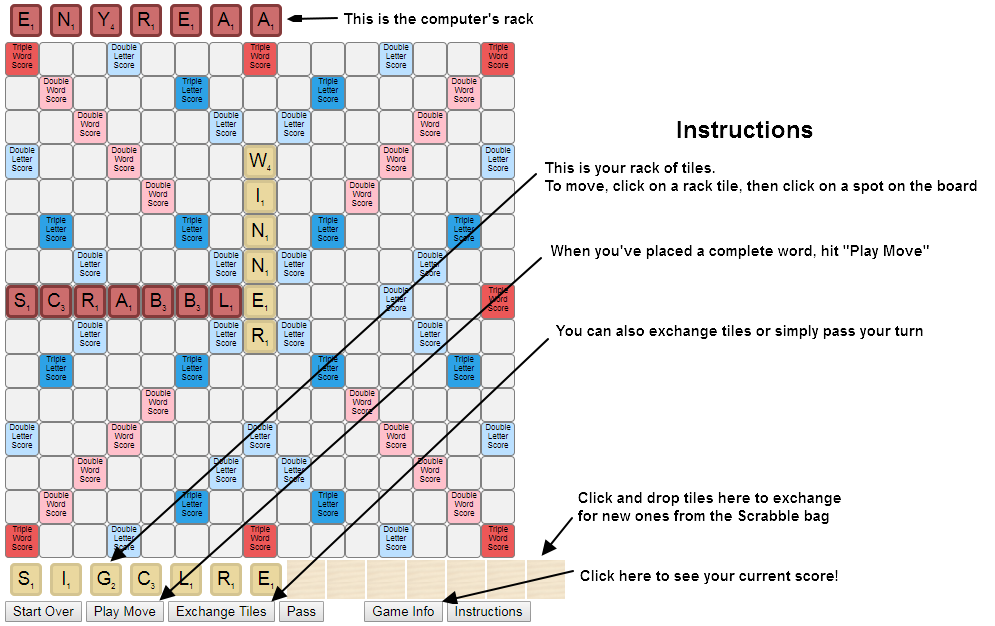
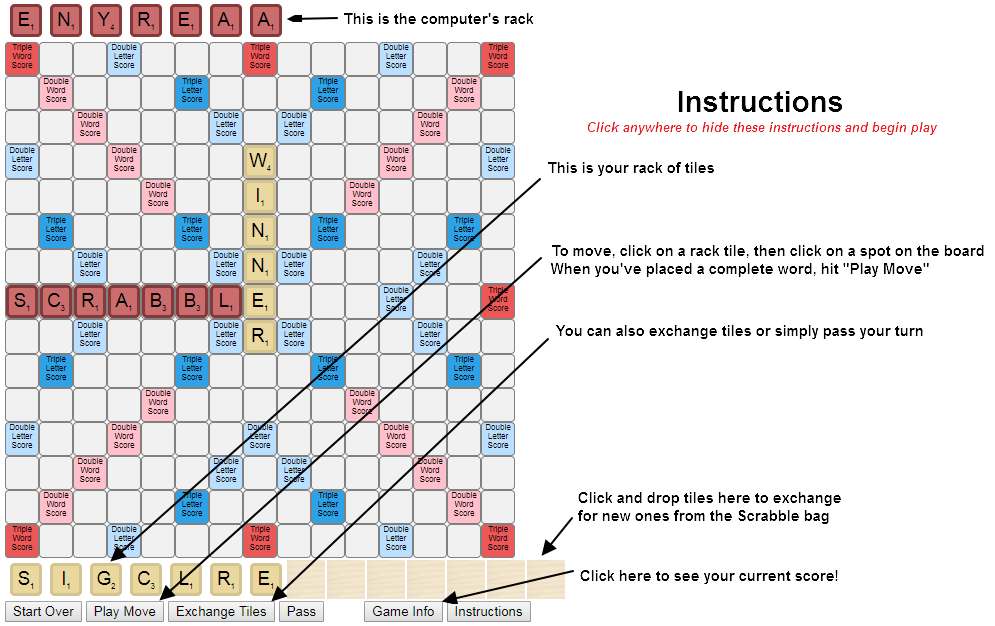
Add instructions and images

diff --git a/scrabble/templates/gameInfo.html b/scrabble/templates/gameInfo.html
@@ -1,6 +1,6 @@
 <!doctype html>
 <head>
-    <title>Scrabble Apprentice</title>
+    <title>Scrabble AI</title>
     <meta charset="utf-8"/>
     <!--Local download location
     https://jquery.com/download/ (minified)
@@ -89,35 +89,23 @@
         </table>
     </div>
     
+    <div id=instructions>
+    </div>
 </body>
 </html>
 <script type=text/javascript>
     // Get the modal
     window.onload = function() {
-        var gameInfo = document.getElementById('gameInfo');
-        console.log(gameInfo);
-
-        // Get the button that opens the modal
-        var showGameInfo = document.getElementById("showGameInfo");
-
-        // Get the <span> element that closes the modal
-        var close = document.getElementById("closeGameInfo");
-        
-        // When the user clicks on the button, open the modal 
-        showGameInfo.onclick = function() {
-            gameInfo.style.display = "block";
-        }
-
-        // When the user clicks on <span> (x), close the modal
-        close.onclick = function() {
-            gameInfo.style.display = "none";
-        }
-
-        // When the user clicks anywhere outside of the modal, close it
-        window.onclick = function(event) {
-            if (event.target != gameInfo && event.target != showGameInfo) {
-                gameInfo.style.display = "none";
-            }
-        }
+      
+    var gameInfo = document.getElementById('gameInfo');
+        gameInfo.style.display = "none";
+            
+    //toggleInstructions 
+        var instructions = document.getElementById('instructions');
+        var imageNode = document.createElement('img');
+        imageNode.src = "../static/img/instructions.png";
+        imageNode.alt = "instructions.png";
+        instructions.appendChild(imageNode);
+        instructions.style.display = "block";
     }
 </script>

diff --git a/scrabble/static/js/run_game.js b/scrabble/static/js/run_game.js
@@ -234,6 +234,19 @@ function handleData(data) {
         if (event.target != gameInfo && event.target != showGameInfo) {
             gameInfo.style.display = "none";
         }
+    };
+    //toggleInstructions 
+    var instructions = document.getElementById('instructions');
+    var imageNode = document.createElement('img');
+    imageNode.src = "../static/img/instructions.png";
+    imageNode.alt = "instructions.png";
+    instructions.appendChild(imageNode);
+    instructions.style.display = "block";
+    window.onclick = function(event) {
+        instructions.style.display = "none";
+    }
+    instructions.onclick = function() {
+        instructions.style.display = "block";
     }
 };
 function parseIntoRowCol(id) {

diff --git a/scrabble/static/css/gameInfo.css b/scrabble/static/css/gameInfo.css
@@ -8,6 +8,19 @@
 	border-style: none;
     cursor: pointer;
 }
+#instructions {
+    display: hidden; /* Hidden by default */
+    position: fixed; /* Stay in place */
+    z-index: 2; /* Sit on top */
+    left: 0%;
+    top: 0%;
+    width: 75%; /* Full width */
+    height: 100%; /* Full height */
+    overflow: auto; /* Enable scroll if needed */
+    background-color: #FFFFFF; /*#FFF8DC;*/
+    opacity: 1;
+    border-radius: 10px;
+}
 #gameInfo {
     display: hidden; /* Hidden by default */
     position: fixed; /* Stay in place */

diff --git a/scrabble/templates/game.html b/scrabble/templates/game.html
@@ -1,6 +1,6 @@
 <!doctype html>
 <head>
-    <title>Scrabble Apprentice</title>
+    <title>Scrabble AI</title>
     <meta charset="utf-8"/>
     <!--Local download location
     https://jquery.com/download/ (minified)
@@ -49,6 +49,8 @@
         <div class="lineDivider"></div>
         <table id="wordsPlayedTable">
         </table>
+    </div>
+    <div id=instructions>
     </div>
     <audio id=soundEffects></audio>
     <audio id=backgroundMusic></audio>

diff --git a/scrabble/static/css/login.css b/scrabble/static/css/login.css
@@ -9,6 +9,7 @@ body {
     font-family: Arial;
     background-color: #3498DB;
     padding: 50px;
+    background-image:url("..\img\instruction_base.png")
 }
 .notes {
     font-style:italic;
@@ -19,7 +20,7 @@ body {
 
 .login {
     margin: 20px auto;
-    width: 300px;
+    width: 400px;
 }
 .login-screen {
     background-color: #FFF;

diff --git a/scrabble/templates/login.html b/scrabble/templates/login.html
@@ -14,7 +14,7 @@
 	<div class="login">
 		<div class="login-screen">
 			<div class="app-title">
-				<h1>Login</h1>
+				<h2>Can you beat the Scrabble AI?</h2>
 			</div>
             <div class="login-failure-message">{{login_failure_message}}</div>
 			<div class="login-form">
